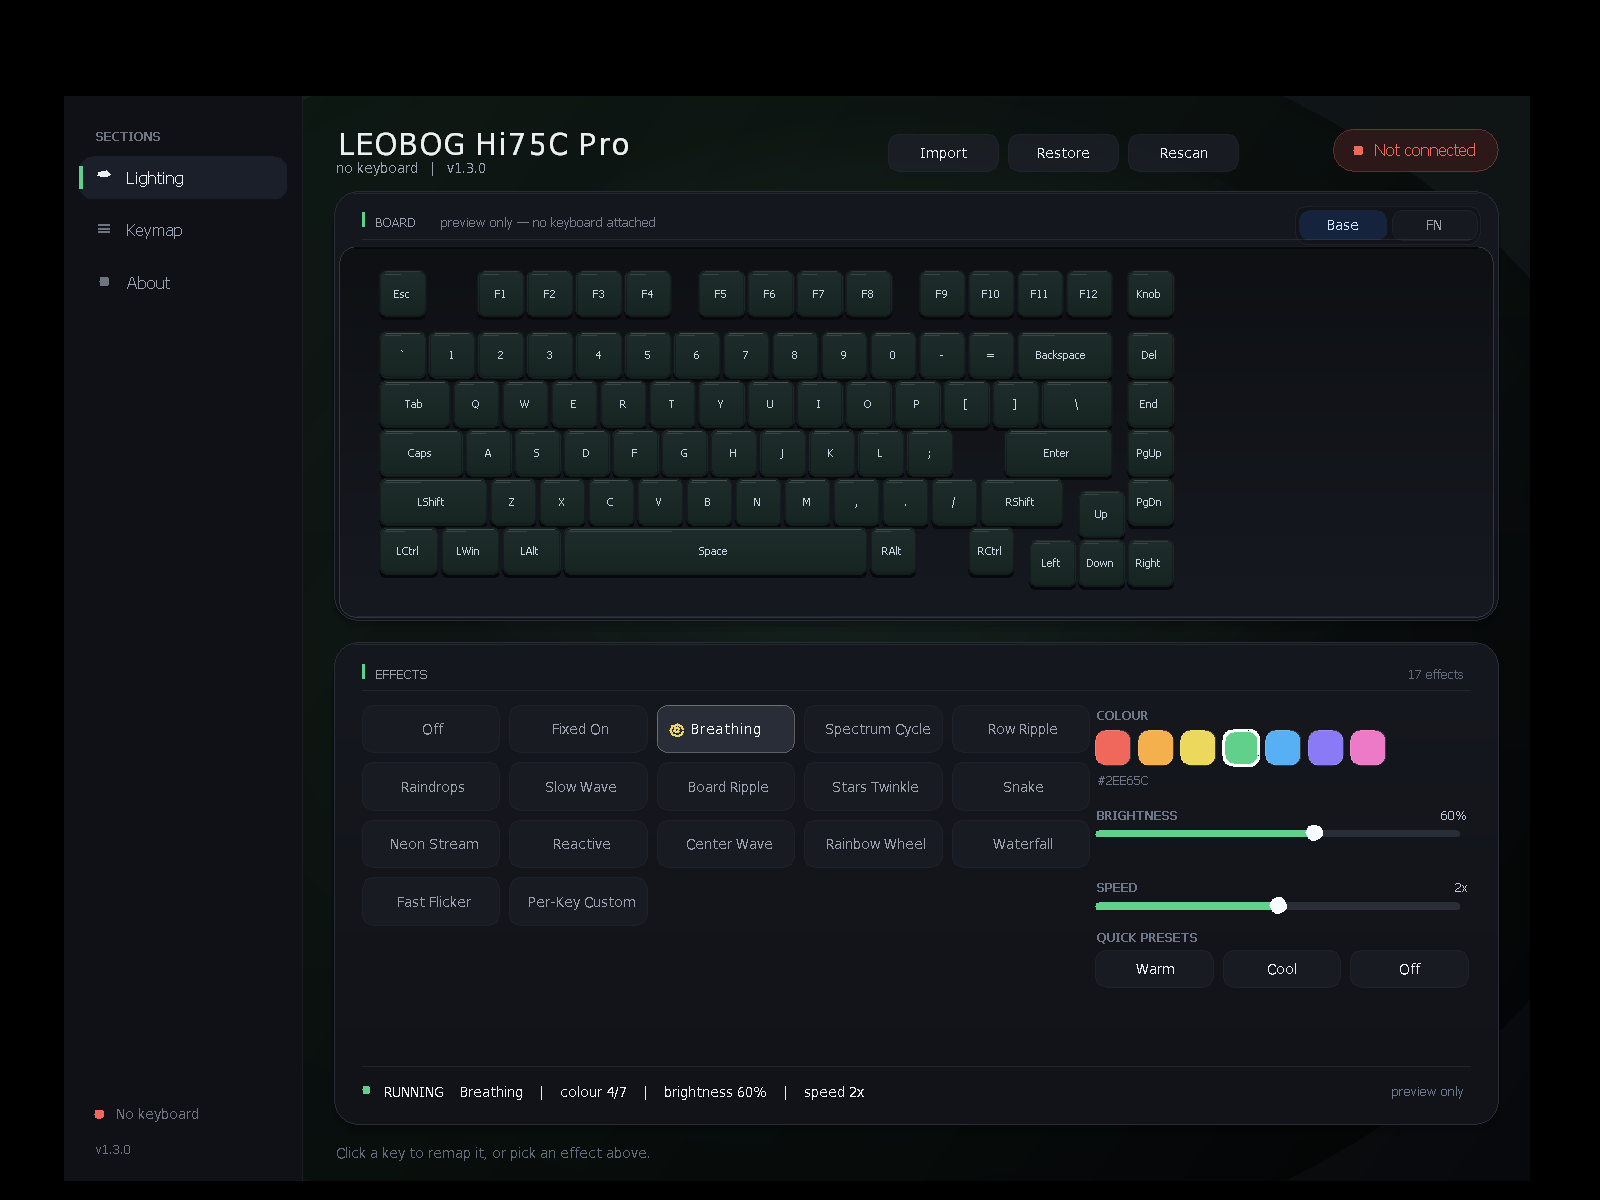
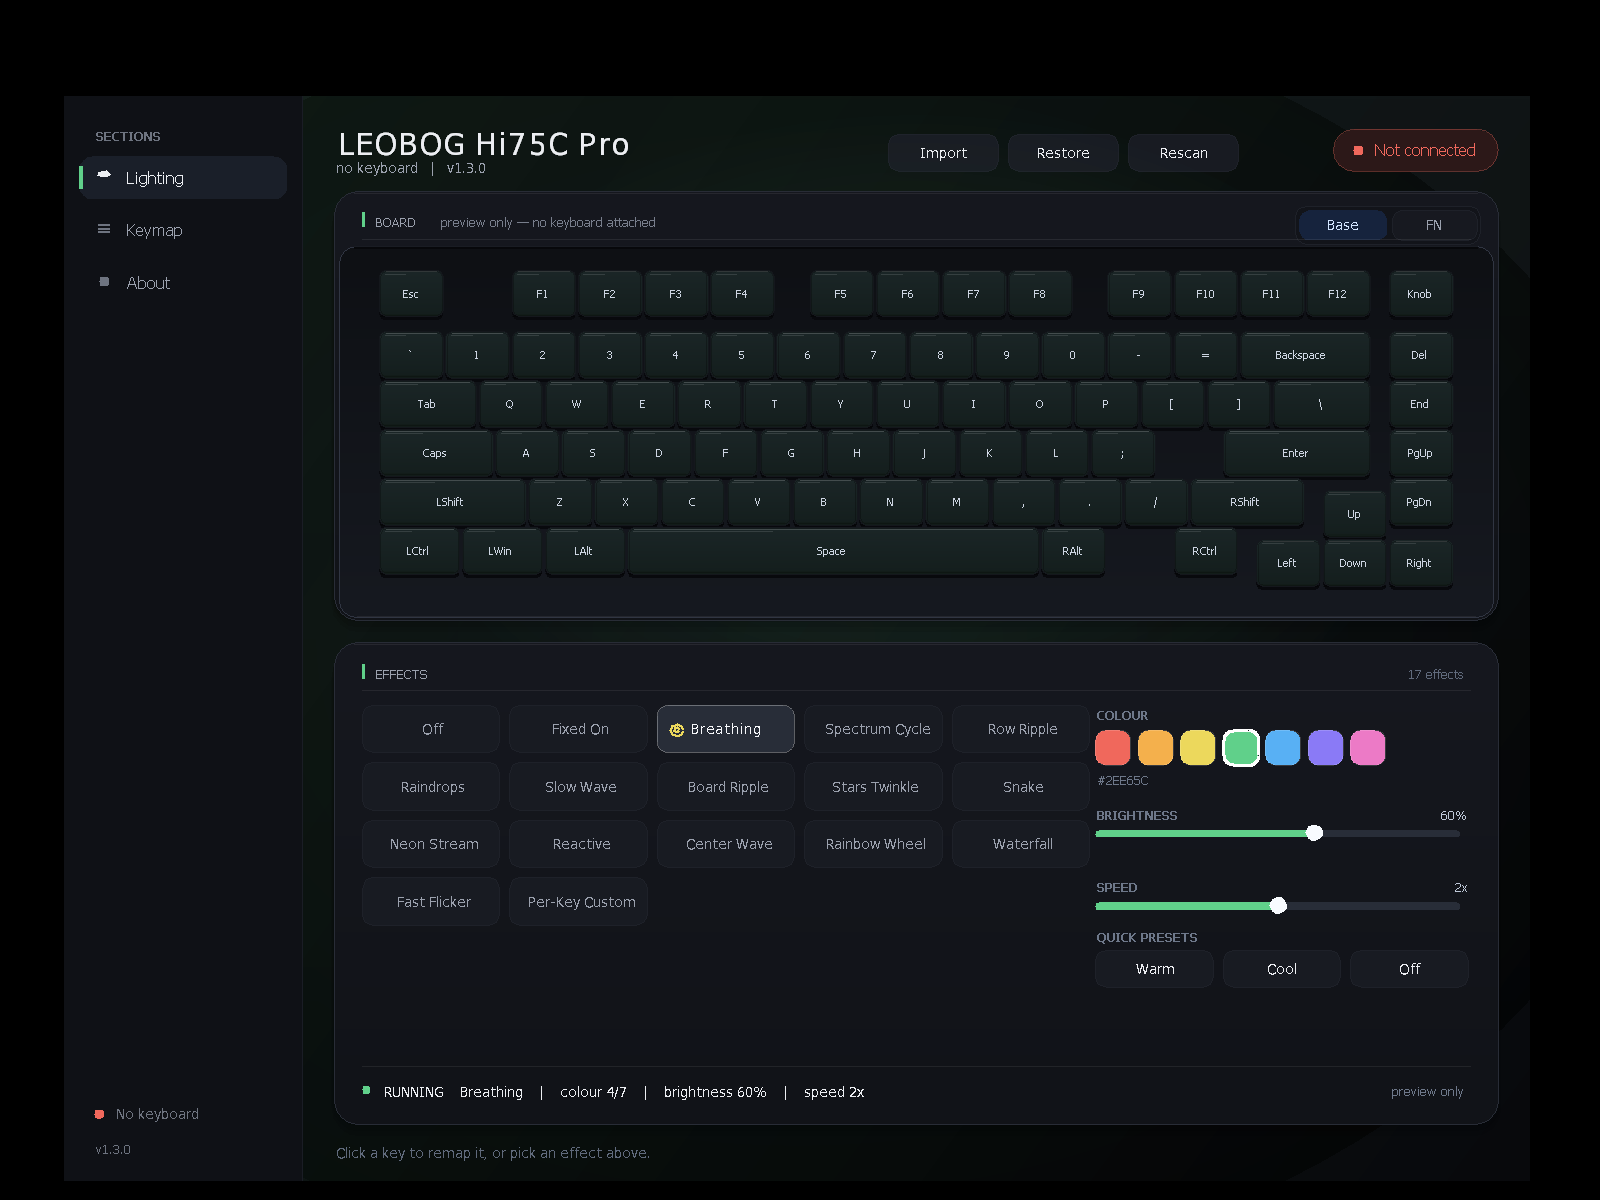
design: board fills its card (stretch capped at 1.35)

diff --git a/ui_native.cpp b/ui_native.cpp
@@ -550,11 +550,13 @@ static void draw_keyboard(Graphics *g, const RectF &area, const Color &line, con
     float pad = 16.0f;
     float avail_w = area.Width - pad * 2, avail_h = area.Height - pad * 2;
     float sx = avail_w / BOARD_WIDTH, sy = avail_h / BOARD_HEIGHT;
-    float s = sx < sy ? sx : sy;              /* the size that fits both axes */
-    /* fill the width, but never stretch the keycaps more than 35%: at that
-       point they read as typed keys rather than squashed ones */
-    float rx = (sx <= s * 1.35f) ? sx : s * 1.35f;
-    float sy2 = s;
+    /* Fill the card on both axes. The keyboard's own aspect (2.5:1) is close
+       enough to this card's that the resulting distortion is ~10-15%, which
+       reads as a slightly wide keycap rather than a stretched one. */
+    /* fill the width only as far as the caps stay believable: beyond ~1.35 the
+       keycaps read as squashed rather than wide */
+    float rx = (sx <= sy * 1.35f) ? sx : sy * 1.35f;
+    float sy2 = sy;
     float boardW = BOARD_WIDTH * rx, boardH = BOARD_HEIGHT * sy2;
     float ox = area.X + (area.Width - boardW) / 2;
     float oy = area.Y + (area.Height - boardH) / 2;
@@ -562,14 +564,14 @@ static void draw_keyboard(Graphics *g, const RectF &area, const Color &line, con
     int i;
     /* the legend has to scale with the cap, or text overflows the key when the
        board is drawn small */
-    float legendPx = s * 0.22f;
+    float legendPx = (sy2 < rx ? sy2 : rx) * 0.22f;
     if (legendPx < 6.0f) legendPx = 6.0f;
     if (legendPx > 10.5f) legendPx = 10.5f;
     Font key(g_face, legendPx, FontStyleRegular, UnitPixel);
     SolidBrush textbrush(dim);
     for (i = 0; i < KEY_COUNT; i++) {
-        RectF k(ox + KEYS[i].x * s + gap / 2, oy + KEYS[i].y * s + gap / 2,
-                KEYS[i].w * s - gap, KEYS[i].h * s - gap);
+        RectF k(ox + KEYS[i].x * rx + gap / 2, oy + KEYS[i].y * sy2 + gap / 2,
+                KEYS[i].w * rx - gap, KEYS[i].h * sy2 - gap);
         {
             int hot = (g_hover == 1000 + i);
             /* side wall first, then the lit top face: this is what makes a
